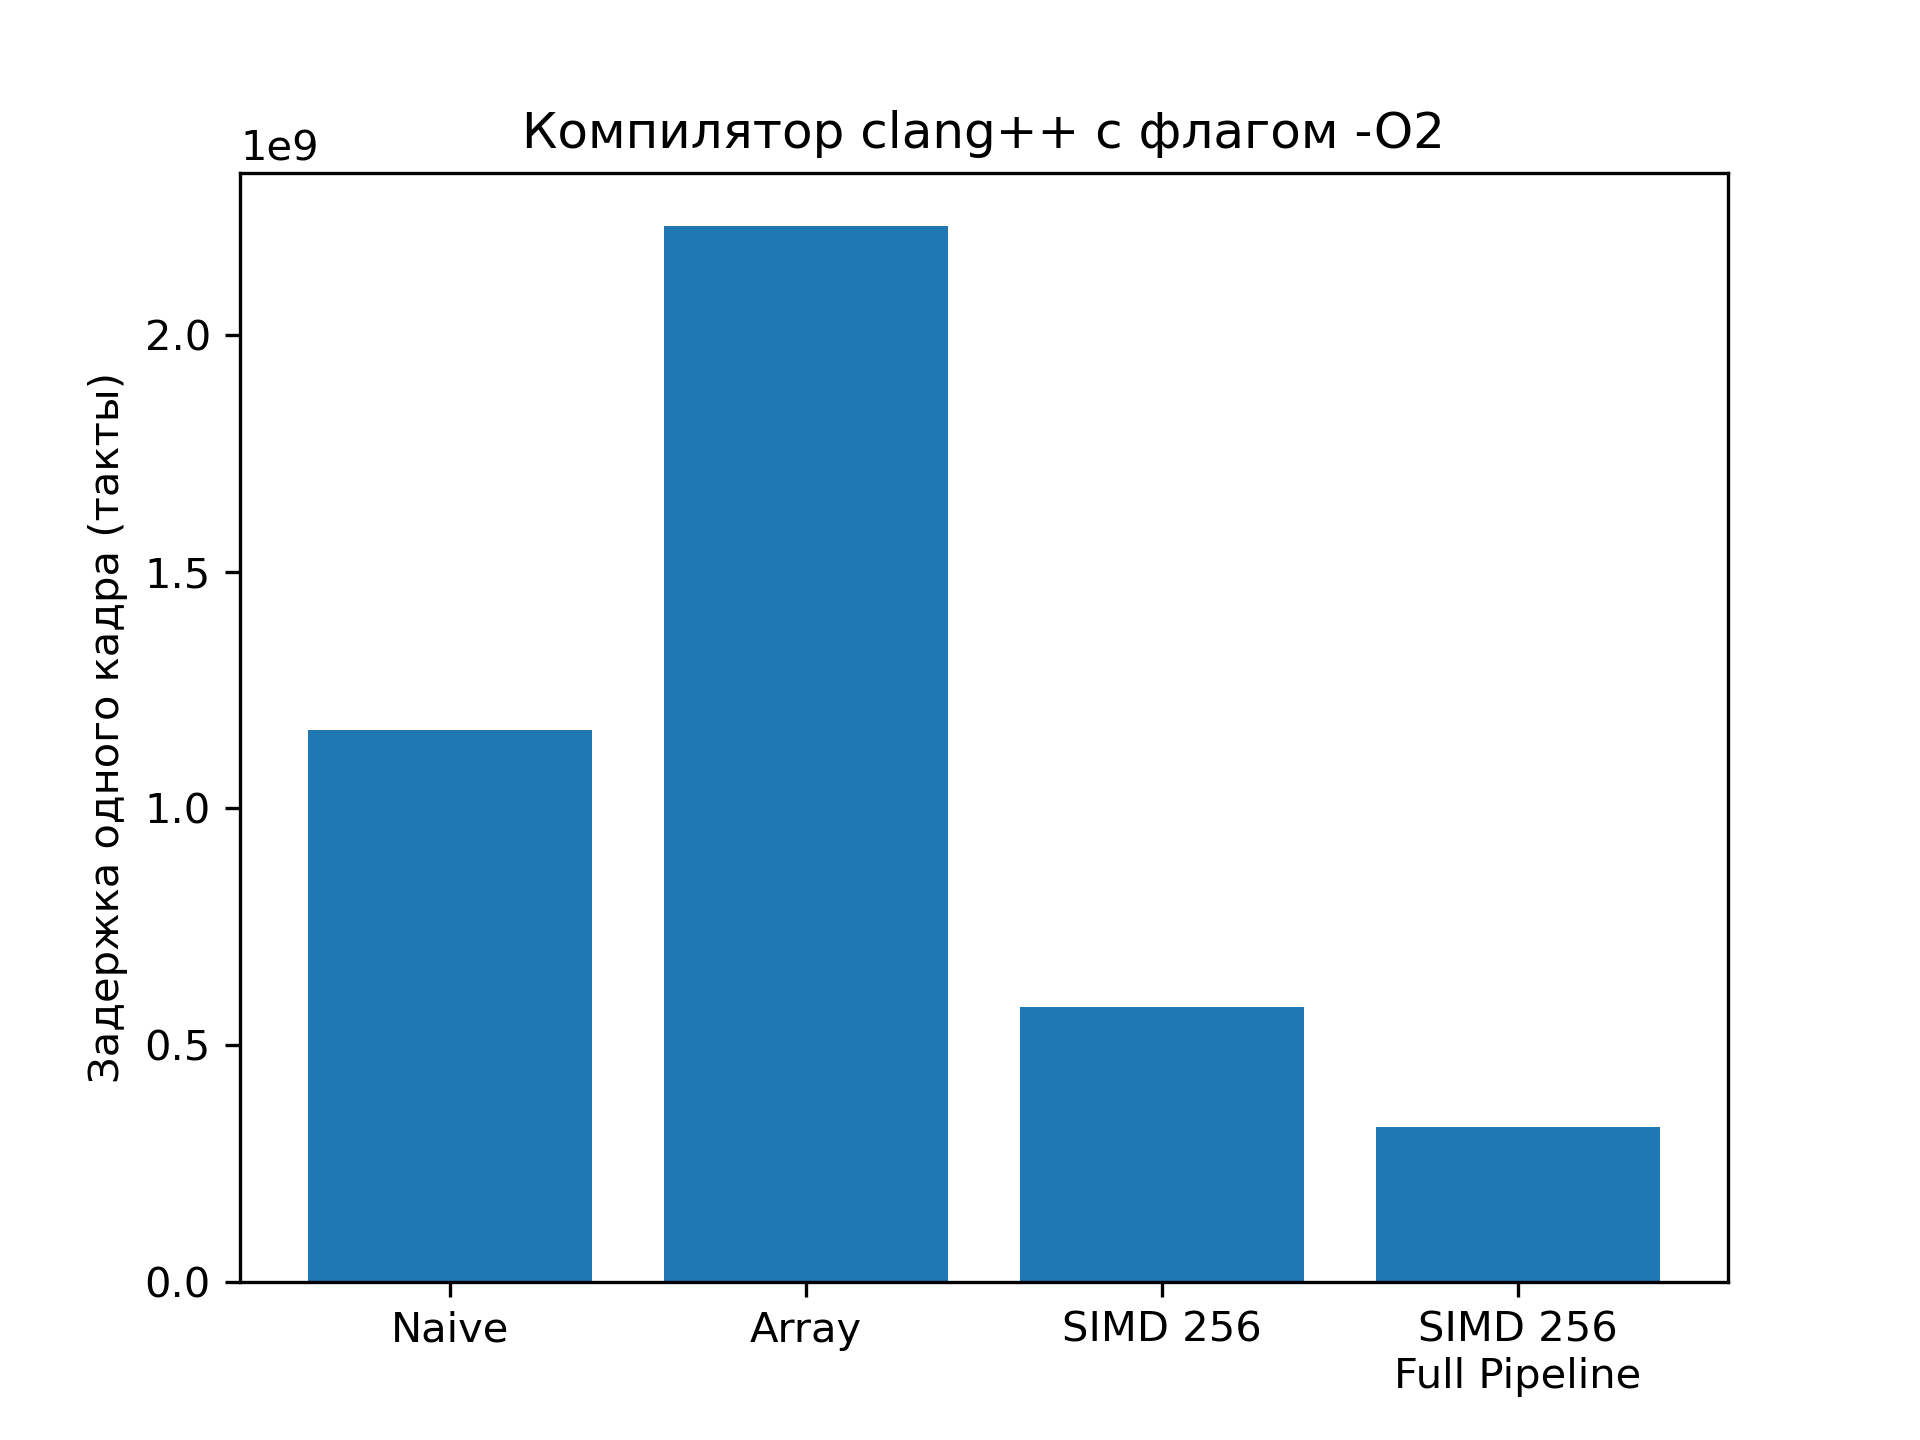
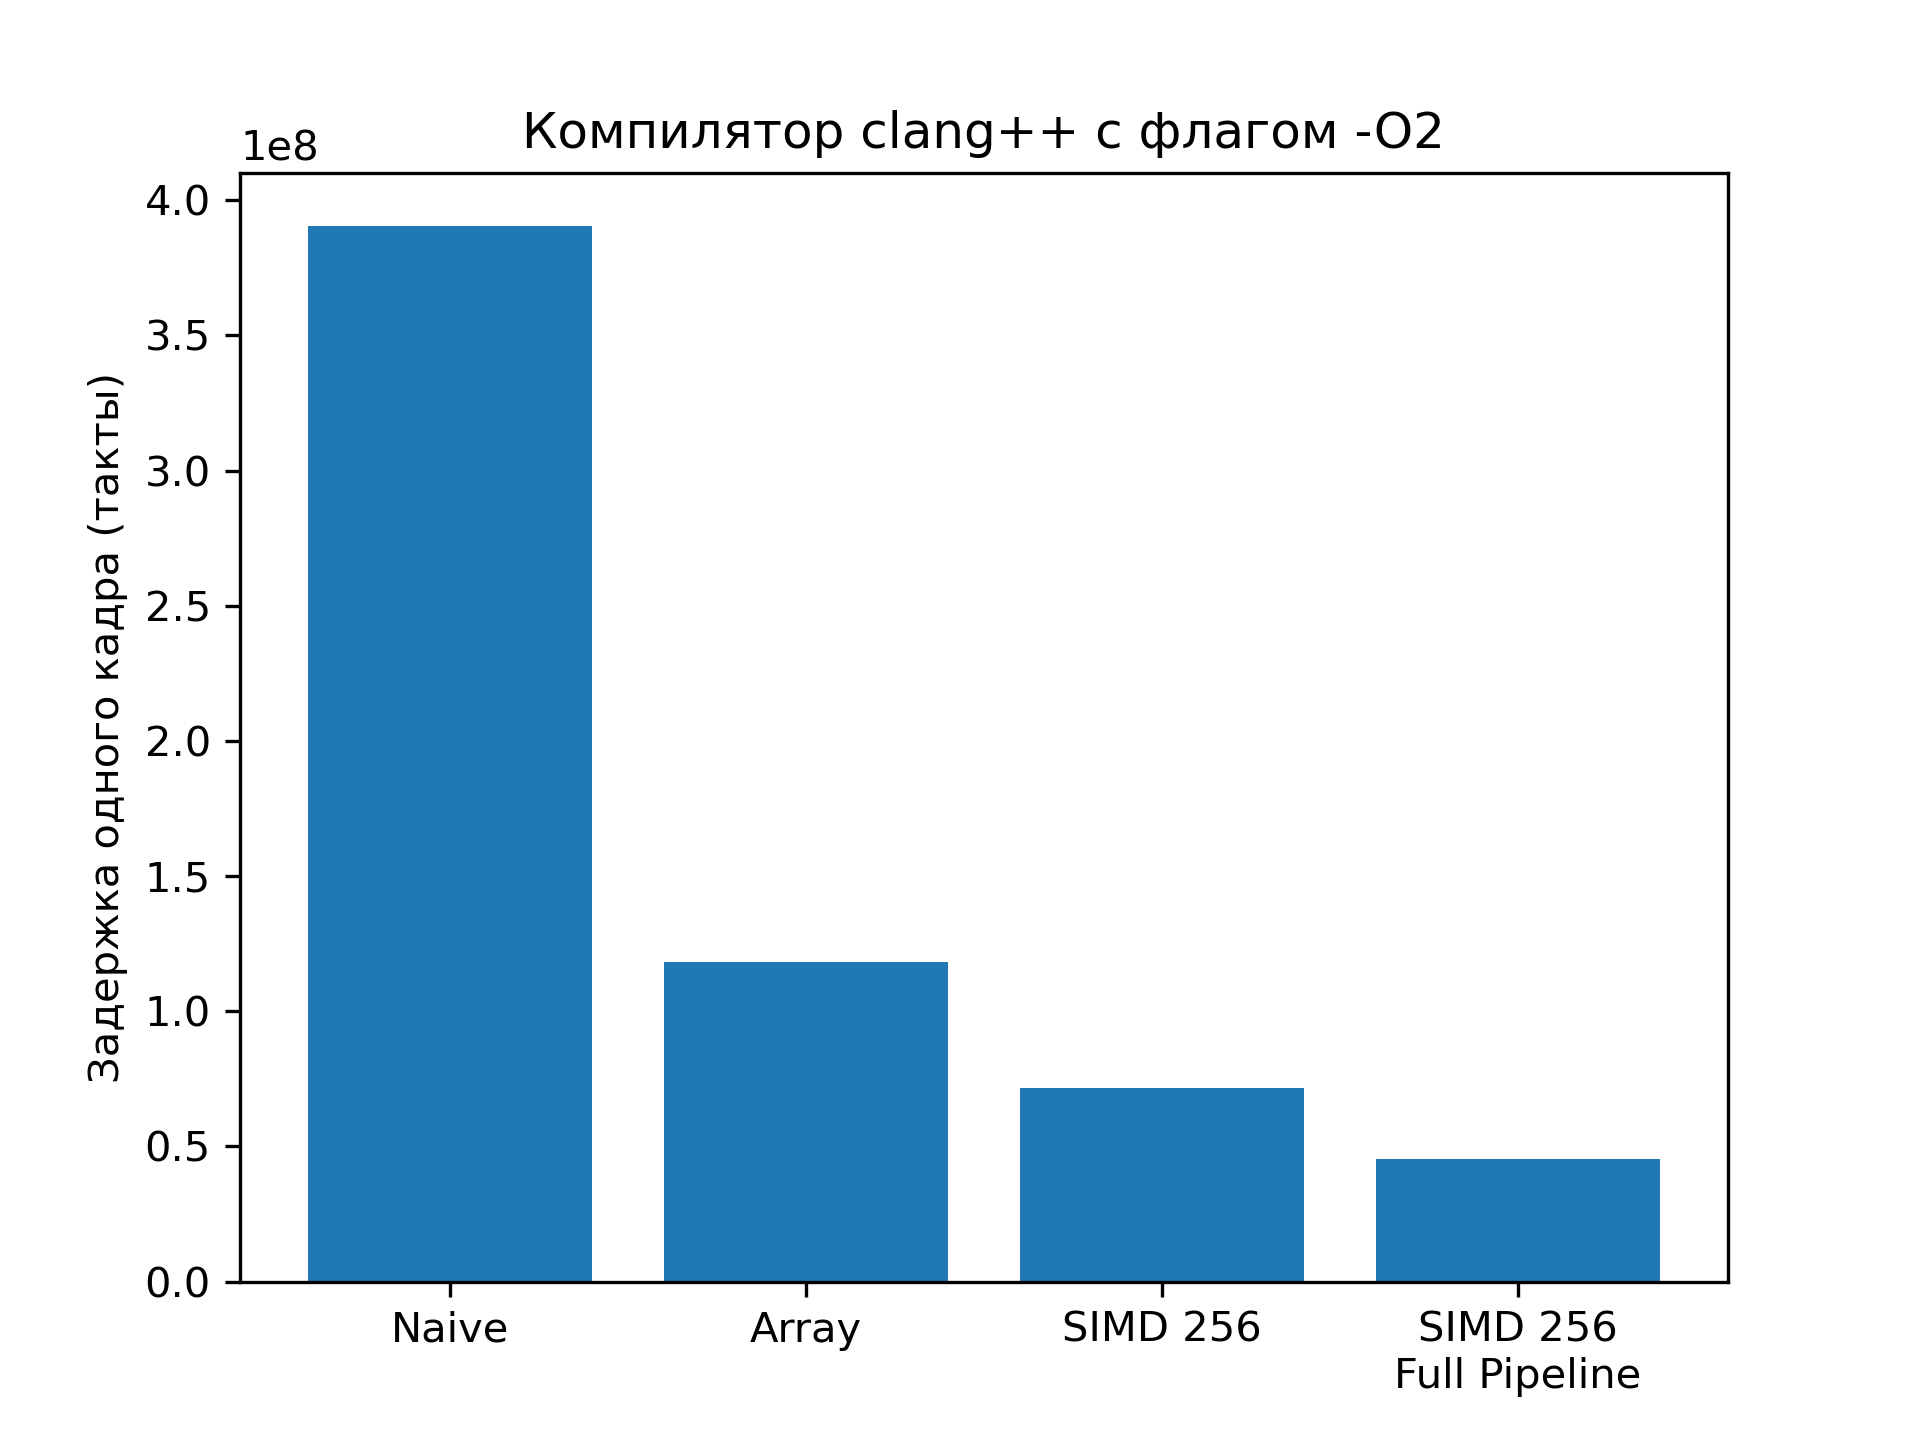
Update README

diff --git a/README.md b/README.md
@@ -425,7 +425,6 @@ SIMD 256 Full Pipeline  G++ -O3
 Измерения показали, что в среднем на отрисовку одного кадра при фиксированной частоте процессора в 2 ГГц тратиться (4.10 ± 0.02) * 10<sup>7</sup> тактов процессора.
 
  -->
-
 <table>
     <thead>
         <tr>
@@ -449,29 +448,30 @@ SIMD 256 Full Pipeline  G++ -O3
             <td align="center">Наивная реализация</td>
             <td align="center">39.8 ± 0.1</td>
             <td align="center">39.75 ± 0.09</td>
-            <td align="center">116.5 ± 0.5</td>
+            <td align="center">39.06 ± 0.08</td>
             <td align="center">39.0 ± 0.1</td>
         </tr>
         <tr>
             <td align="center">Реализация на массивах</td>
             <td align="center">10.37 ± 0.02</td>
             <td align="center">14.65 ± 0.1</td>
-            <td align="center">220 ± 10</td>
+            <td align="center">11.82 ± 0.03</td>
             <td align="center">11.83 ± 0.04</td>
         </tr>
         <tr>
             <td align="center">Реализация с использованием SIMD</td>
             <td align="center">6.55 ± 0.02</td>
             <td align="center">6.54 ± 0.02</td>
-            <td align="center">58.0 ± 0.2</td>
+            <td align="center">7.15 ± 0.03</td>
             <td align="center">7.15 ± 0.03</td>
         </tr>
         <tr>
             <td align="center">Реализация с использованием SIMD и развёрткой цикла</td>
             <td align="center">4.10 ± 0.01</td>
             <td align="center">4.10 ± 0.02</td>
-            <td align="center">32.6 ± 0.1</td>
+            <td align="center">4.55 ± 0.07</td>
             <td align="center">4.49 ± 0.02</td>
         </tr>
     </tbody>
 </table>
+
